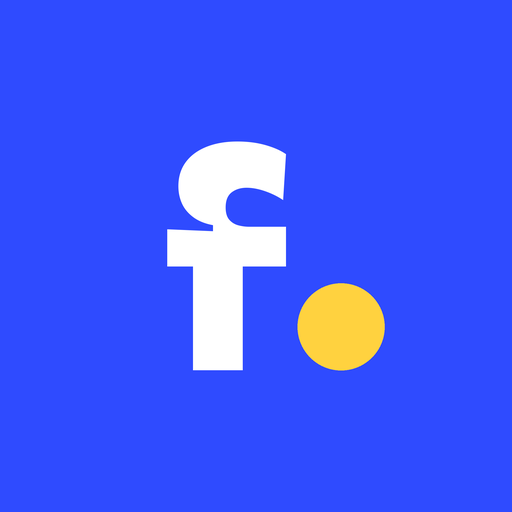
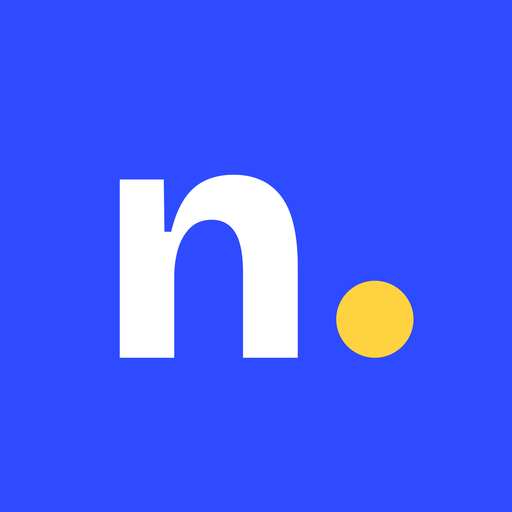
Novo nome: nowish.
Claude-Session: https://claude.ai/code/session_01GCZZzosU5xEui7inoUkPgR

Changed region(s): [[0.2188, 0.25, 0.8125, 0.75]]

diff --git a/app.js b/app.js
@@ -279,7 +279,7 @@
 
   function renderHome() {
     var due = dueIds().length, cur = currentModule();
-    var html = '<header class="bar-top"><div class="wordmark">Fluency<i></i></div><div class="brand-right">' +
+    var html = '<header class="bar-top"><div class="wordmark">nowish<i></i></div><div class="brand-right">' +
       (due ? '<button class="due-pill" id="due" aria-label="Revisão de hoje">' + svg('<path d="M20 12a8 8 0 1 1-2.6-5.9"/><path d="M20 4v5h-5"/>', 2.4) + due + '</button>' : "") +
       '<button class="offline ' + offline.state + '" id="offline" aria-label="Status offline">' + offlineIcon() + '</button>' +
       goalChip() + '</div></header>';
@@ -830,7 +830,7 @@
     };
     var c = document.getElementById("copy");
     if (c) c.onclick = function () {
-      var lines = ["Meus erros no Fluency:"];
+      var lines = ["Meus erros no nowish:"];
       pend.forEach(function (id) {
         var ref = ITEMS[id], r = state.results[id] || {};
         lines.push("- " + ref.week.title + ", " + ref.section.title + ", questão " + ref.item.n + ": " + plain(ref.item.q || ref.item.full) +
@@ -853,7 +853,7 @@
 
   // ---------- Boas-vindas ----------
   var WELCOME = [
-    { t: "Seu percurso de inglês", p: "Do básico ao avançado, um passo de cada vez. Uns 20 minutos por dia, no seu ritmo.", ic: '<path d="M5 19c3-6 11-4 14-12"/><circle cx="5" cy="19" r="2"/><circle cx="19" cy="7" r="2"/>' },
+    { t: "Bem-vindo ao nowish.", p: "Inglês nos intervalos do dia: no ônibus, na fila, no café. Do básico ao avançado, um momento de cada vez.", ic: '<path d="M5 19c3-6 11-4 14-12"/><circle cx="5" cy="19" r="2"/><circle cx="19" cy="7" r="2"/>' },
     { t: "Funciona sem internet", p: "No Safari, toque em Compartilhar e depois em Adicionar à Tela de Início. A nuvem verde no topo mostra que está tudo salvo.", ic: '<path d="M7 18.5h10a4 4 0 0 0 .6-7.95A5.5 5.5 0 0 0 7 9.5a4.5 4.5 0 0 0 0 9z"/><path d="M9.5 14l2 2 3.5-3.5"/>' },
     { t: "Erre à vontade", p: "Cada erro volta na revisão até você acertar três vezes. Faça backup do progresso uma vez por semana, na aba Perfil.", ic: '<path d="M20 12a8 8 0 1 1-2.6-5.9"/><path d="M20 4v5h-5"/>' }
   ];

diff --git a/index.html b/index.html
@@ -3,13 +3,13 @@
 <head>
 <meta charset="utf-8">
 <meta name="viewport" content="width=device-width, initial-scale=1, viewport-fit=cover">
-<title>Fluency</title>
+<title>nowish.</title>
 <meta name="theme-color" content="#EEF1F7" media="(prefers-color-scheme: light)">
 <meta name="theme-color" content="#0D1120" media="(prefers-color-scheme: dark)">
 <meta name="apple-mobile-web-app-capable" content="yes">
 <meta name="mobile-web-app-capable" content="yes">
 <meta name="apple-mobile-web-app-status-bar-style" content="default">
-<meta name="apple-mobile-web-app-title" content="Fluency">
+<meta name="apple-mobile-web-app-title" content="nowish">
 <link rel="manifest" href="manifest.webmanifest">
 <link rel="apple-touch-icon" href="icons/apple-touch-icon.png">
 <link rel="icon" href="icons/icon-192.png">

diff --git a/sw.js b/sw.js
@@ -1,5 +1,5 @@
 // Mude a versão a cada atualização de conteúdo para o iPhone baixar os arquivos novos.
-const VERSION = "2026-11-12-1";
+const VERSION = "2026-11-12-2";
 const CACHE = "ingles-" + VERSION;
 const FILES = ["./", "index.html", "app.js", "content.js", "content-m1.js", "content-m2.js", "content-m3.js", "content-a2.js", "content-b1.js", "course.js", "manifest.webmanifest",
   "icons/apple-touch-icon.png", "icons/icon-192.png", "icons/icon-512.png", "fonts/bricolage.woff2"];

diff --git a/README.md b/README.md
@@ -1,4 +1,6 @@
-# Fluency
+# nowish.
+
+Inglês nos intervalos do dia. App de estudo offline (PWA).
 
 App de estudo de inglês que funciona offline no iPhone (PWA).
 
